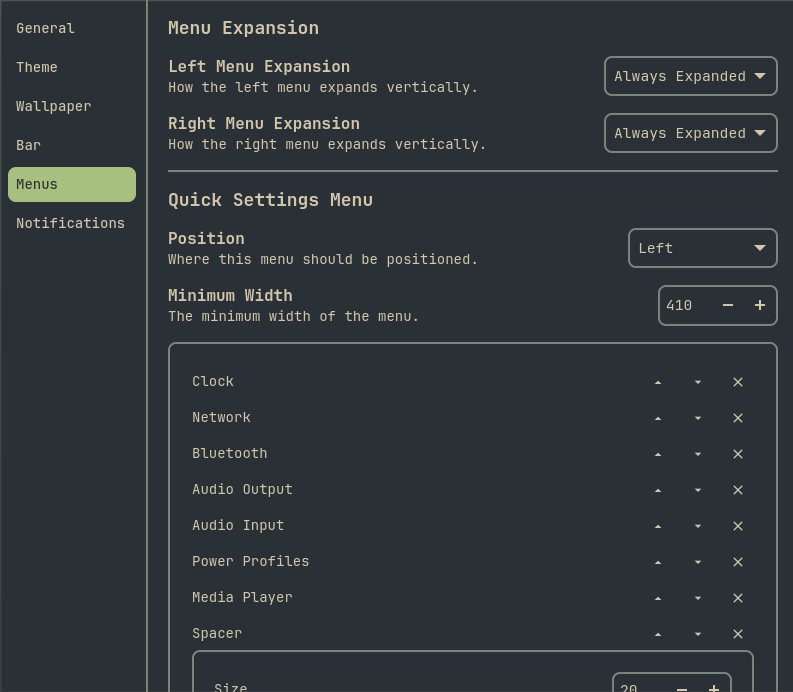
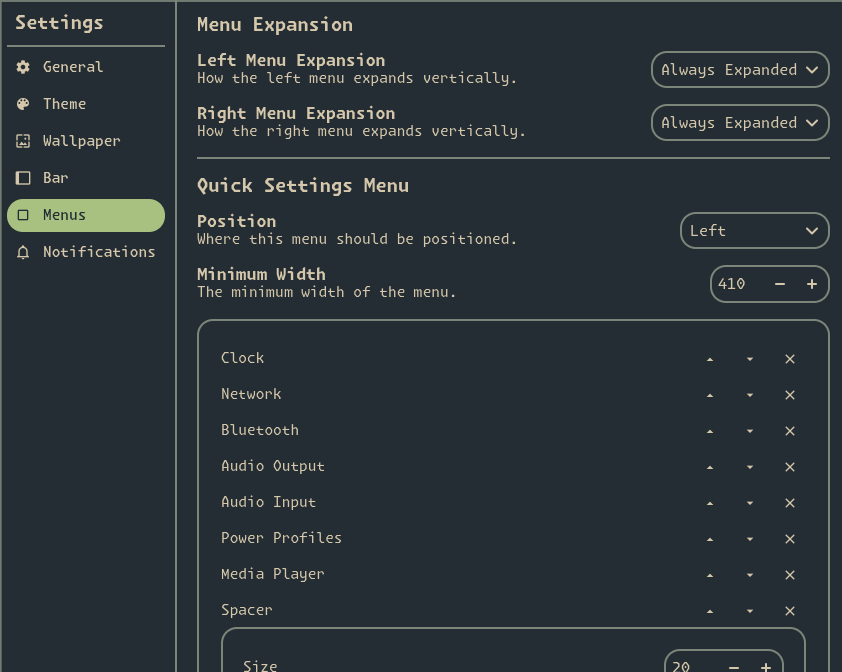
updating docs settings screenshot

diff --git a/crates/okshell-config/src/schema/menu_widgets.rs b/crates/okshell-config/src/schema/menu_widgets.rs
@@ -175,6 +175,7 @@ pub struct SpacerConfig {
 }
 
 #[derive(Debug, Clone, PartialEq, Eq, Deserialize, Serialize, Store, JsonSchema)]
+#[serde(default)]
 pub struct ContainerConfig {
     pub widgets: Vec<MenuWidget>,
     pub spacing: i32,

diff --git a/crates/okshell-config/src/schema/bar_widgets.rs b/crates/okshell-config/src/schema/bar_widgets.rs
@@ -121,6 +121,7 @@ impl BarWidget {
 }
 
 #[derive(Debug, Clone, PartialEq, Eq, Deserialize, Serialize, JsonSchema)]
+#[serde(default)]
 pub struct CavaConfig {
     pub bars: u16,
     pub bar_width: u32,
